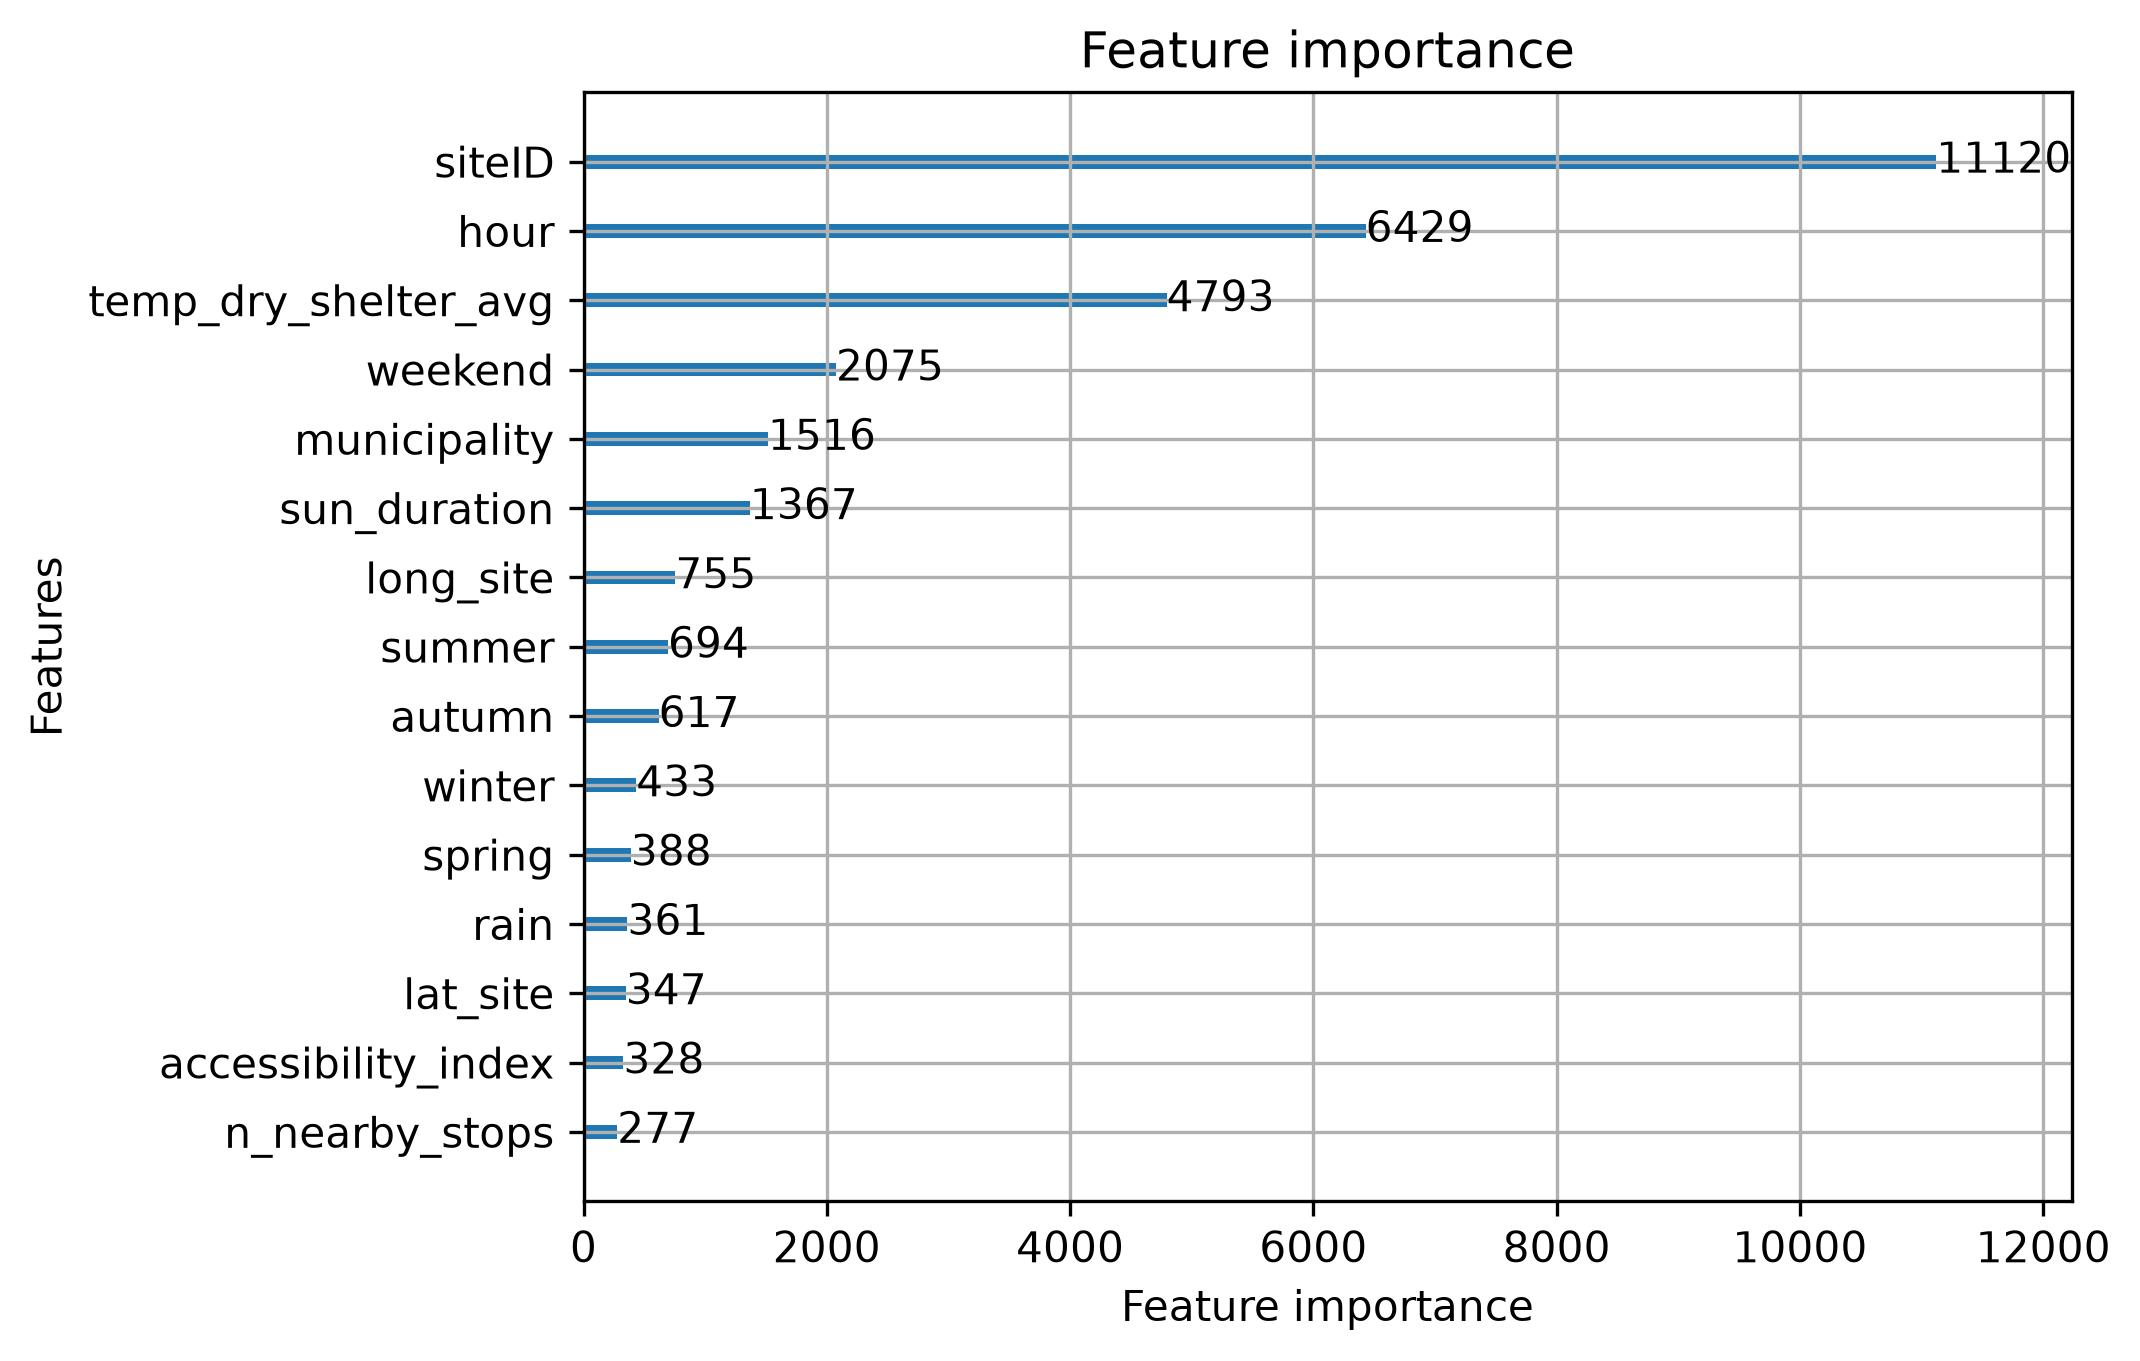
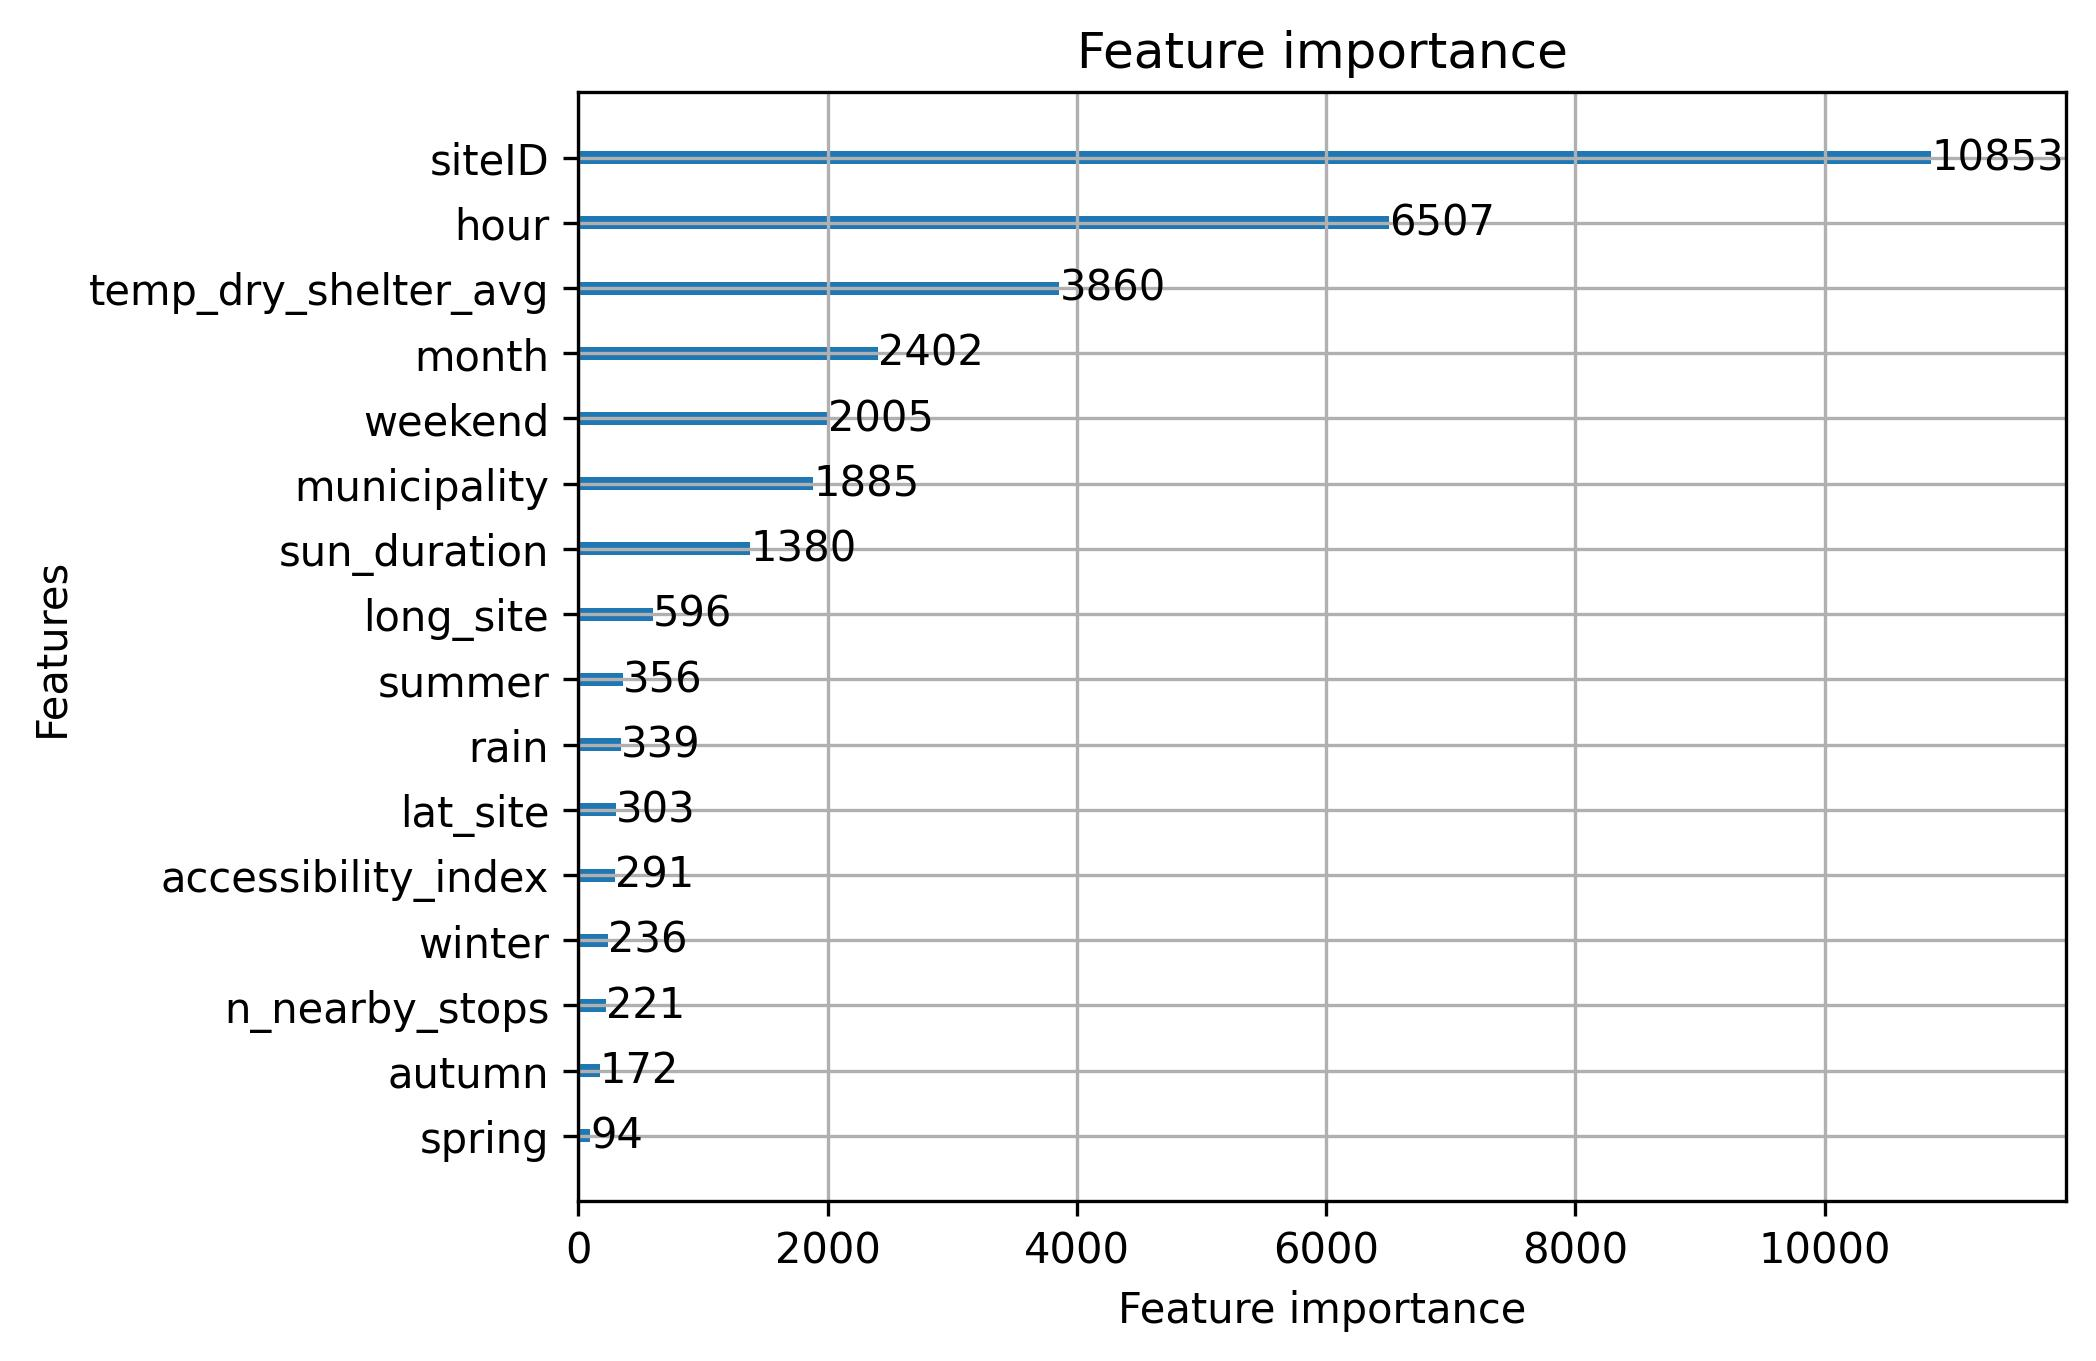
improving the model

diff --git a/Datasets for features/second_model_try.py b/Datasets for features/second_model_try.py
@@ -1,0 +1,108 @@
+import pandas as pd
+import numpy as np
+import lightgbm as lgb
+from sklearn.metrics import mean_poisson_deviance
+import matplotlib.pyplot as plt
+
+
+data_train = pd.read_csv("merged_data.csv")
+data_test = pd.read_csv("merged_data_test.csv")
+
+
+# create cyclic variables for both train and test
+for df in [data_train, data_test]:
+    df["hr_sin"] = np.sin(df["hour"] * (2 * np.pi / 24))
+    df["hr_cos"] = np.cos(df["hour"] * (2 * np.pi / 24))
+
+    df["mnth_sin"] = np.sin((df["month"] - 1) * (2 * np.pi / 12))
+    df["mnth_cos"] = np.cos((df["month"] - 1) * (2 * np.pi / 12))
+
+
+# define target variable
+y_train = data_train["count"]
+y_test = data_test["count"]
+
+
+# define feature variables
+# drop count = target
+# drop start_date/date = string date columns
+# drop season = text column
+# drop hour/month = replaced by cyclic variables
+
+X_train = data_train.drop(columns=[
+    "count", "start_date", "date", 
+    "hour", "month", "long", "lat"
+], errors="ignore")
+
+X_test = data_test.drop(columns=[
+    "count", "start_date", "date",
+    "hour", "month", "long", "lat"
+], errors="ignore")
+
+
+# define/prepare categorical variables
+cat_feature = ["siteID", "municipality"]
+
+X_train["siteID"] = X_train["siteID"].astype("category")
+X_test["siteID"] = X_test["siteID"].astype("category")
+
+X_train["municipality"] = X_train["municipality"].astype("category")
+X_test["municipality"] = X_test["municipality"].astype("category")
+
+
+# create dataset in lgb format
+train_data = lgb.Dataset(
+    X_train,
+    label=y_train,
+    categorical_feature=cat_feature
+)
+
+test_data = lgb.Dataset(
+    X_test,
+    label=y_test,
+    categorical_feature=cat_feature
+)
+
+
+# set lightgbm parameters
+params = {
+    "objective": "poisson",
+    "metric": "poisson",
+    "learning_rate": 0.05,
+    "num_leaves": 64,
+    "max_depth": -1,
+    "feature_fraction": 0.8,
+
+}
+
+# Stop training when the model no longer improves on test data. 
+# The best model is around 127 
+model = lgb.train(
+    params,
+    train_data,
+    num_boost_round=2000,
+    valid_sets=[test_data],
+    valid_names=["test"],
+    callbacks=[
+        lgb.early_stopping(stopping_rounds=50),
+        lgb.log_evaluation(period=100)
+    ]
+)
+
+pred = model.predict(X_test)
+
+pois_dev = mean_poisson_deviance(y_test, pred)
+print("Poisson deviance:", pois_dev)
+
+
+# Comparing with the basic model that does not count ohter variables (Always predic average count)
+from sklearn.metrics import mean_poisson_deviance
+import numpy as np
+
+baseline_pred = np.repeat(y_train.mean(), len(y_test))
+
+baseline_dev = mean_poisson_deviance(y_test, baseline_pred)
+
+print("Baseline Poisson deviance:", baseline_dev)
+print("LightGBM Poisson deviance:", pois_dev)
+

diff --git a/Datasets for features/FINAL MERGE.py b/Datasets for features/FINAL MERGE.py
@@ -57,7 +57,7 @@ final_merged.loc[missing, weather_variables] = fill[weather_variables].values
 
 # delete columns that are not needed for analysis
 final_merged = final_merged.drop(columns=["station_id_1", "station_id_2",
-                                          "station_id_3", "lat_station", "long_station"])
+                                          "station_id_3", "lat_station", "long_station","season"])
 
 # checking for missing data in siteID
 print(final_merged["siteID"].value_counts())